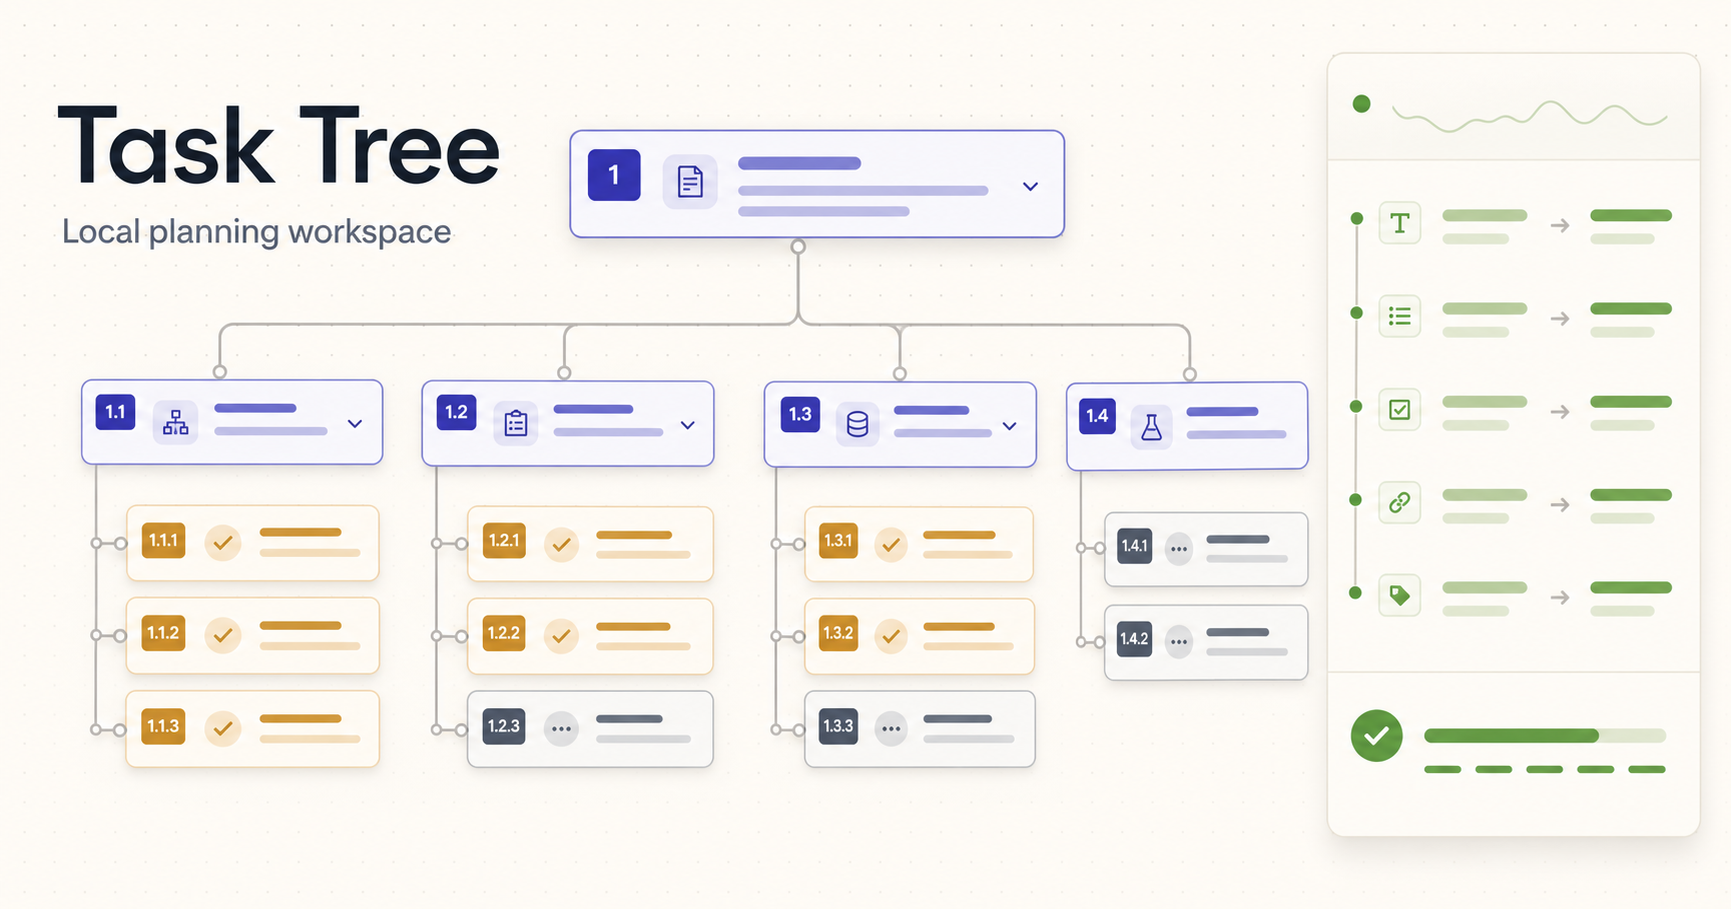
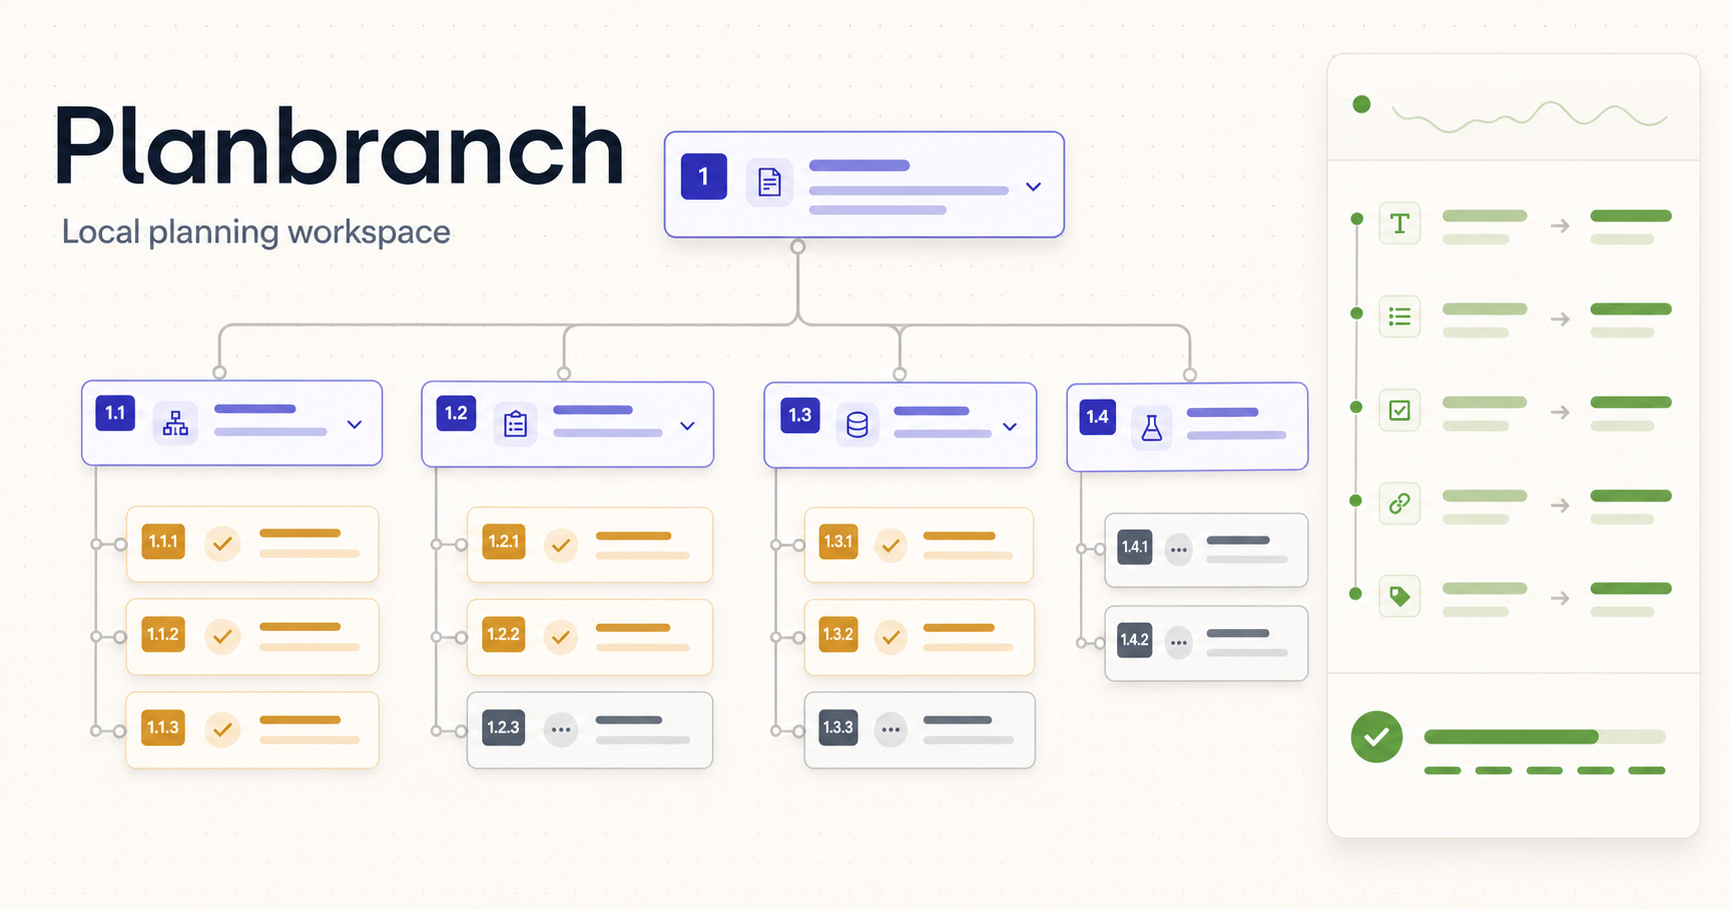
rename app to Planbranch

diff --git a/server/model.ts b/server/model.ts
@@ -170,8 +170,8 @@ class CodexConnection {
     try {
       const initialized = (await connection.request("initialize", {
         clientInfo: {
-          name: "task_tree",
-          title: "Task Tree",
+          name: "planbranch",
+          title: "Planbranch",
           version: "0.1.0",
         },
         capabilities: {
@@ -312,7 +312,7 @@ function systemInstructions(messages: Message[]): string {
     .join("\n\n");
   return `${supplied}
 
-This is a bounded planning session. Use only the supplied Task Tree tools.
+This is a bounded planning session. Use only the supplied Planbranch planning tools.
 Do not inspect files, run shell commands, browse, delegate, or use unrelated tools.
 Tool results are authoritative. Correct rejected calls before continuing.
 Call finish_run only after every intended mutation is accepted, then stop.`;
@@ -383,7 +383,7 @@ export class CodexAppServerClient implements ModelClient {
         if (message.id !== undefined) {
           connection.respondError(
             message.id,
-            "Task Tree does not support this Codex server request.",
+            "Planbranch does not support this Codex server request.",
           );
         }
         return;
@@ -425,7 +425,7 @@ export class CodexAppServerClient implements ModelClient {
       void Promise.resolve(
         onToolCall
           ? onToolCall(call)
-          : { ok: false, error: "No Task Tree tool handler is available." },
+          : { ok: false, error: "No Planbranch tool handler is available." },
       )
         .then((result) => {
           connection.respond(message.id!, {
@@ -437,7 +437,7 @@ export class CodexAppServerClient implements ModelClient {
         })
         .catch((error: unknown) => {
           const failure =
-            error instanceof Error ? error : new Error("Task Tree tool failed.");
+            error instanceof Error ? error : new Error("Planbranch tool failed.");
           connection.respond(message.id!, {
             contentItems: [
               {

diff --git a/app/layout.tsx b/app/layout.tsx
@@ -29,10 +29,10 @@ export async function generateMetadata(): Promise<Metadata> {
 
   return {
     metadataBase,
-    title: "Task Tree",
+    title: "Planbranch",
     description,
     openGraph: {
-      title: "Task Tree",
+      title: "Planbranch",
       description,
       type: "website",
       images: [
@@ -40,13 +40,13 @@ export async function generateMetadata(): Promise<Metadata> {
           url: image,
           width: 1731,
           height: 909,
-          alt: "Task Tree ordered decomposition workspace",
+          alt: "Planbranch ordered decomposition workspace",
         },
       ],
     },
     twitter: {
       card: "summary_large_image",
-      title: "Task Tree",
+      title: "Planbranch",
       description,
       images: [image],
     },

diff --git a/server/prompts.ts b/server/prompts.ts
@@ -5,7 +5,7 @@ import {
   type TaskTree,
 } from "../packages/domain/src";
 
-export const planningSystemPrompt = `You are the planning engine for Task Tree, a strictly ordered task-decomposition application.
+export const planningSystemPrompt = `You are the planning engine for Planbranch, a strictly ordered task-decomposition application.
 
 Ubiquitous language:
 - A Compound Task has an ordered Decomposition and no Operator.

diff --git a/server/index.ts b/server/index.ts
@@ -16,7 +16,7 @@ const app = await buildApp({
 try {
   await app.listen({ host: config.host, port: config.port });
   console.log(
-    `Task Tree model service listening on http://${config.host}:${config.port}`,
+    `Planbranch model service listening on http://${config.host}:${config.port}`,
   );
 } catch (error) {
   app.log.error(error);

diff --git a/worker/index.ts b/worker/index.ts
@@ -1,4 +1,4 @@
-/** Cloudflare Worker entry point for the Task Tree web client. */
+/** Cloudflare Worker entry point for the Planbranch web client. */
 import { handleImageOptimization, DEFAULT_DEVICE_SIZES, DEFAULT_IMAGE_SIZES } from "vinext/server/image-optimization";
 import handler from "vinext/server/app-router-entry";
 

diff --git a/app/page.tsx b/app/page.tsx
@@ -2,7 +2,7 @@ import type { Metadata } from "next";
 import { TaskTreeApp } from "./task-tree/task-tree-app";
 
 export const metadata: Metadata = {
-  title: "Task Tree",
+  title: "Planbranch",
   description:
     "A local, observable workspace for decomposing complex work into ordered Tasks.",
 };

diff --git a/server/run-manager.ts b/server/run-manager.ts
@@ -585,7 +585,7 @@ export class RunManager {
 
     if (response.toolCalls.length === 0) {
       throw new AttemptFailure(
-        "The model stopped before calling a Task Tree tool.",
+        "The model stopped before calling a Planbranch tool.",
       );
     }
     if (!context.finished) {

diff --git a/app/task-tree/toolbar.tsx b/app/task-tree/toolbar.tsx
@@ -82,7 +82,7 @@ export function Toolbar({
           <GitBranch size={18} />
         </span>
         <span>
-          <strong>Task Tree</strong>
+          <strong>Planbranch</strong>
           <small>local planning workspace</small>
         </span>
       </div>

diff --git a/README.md b/README.md
@@ -1,6 +1,6 @@
-# Task Tree
+# Planbranch
 
-Task Tree is a local, single-user planning workspace that uses a configurable
+Planbranch is a local, single-user planning workspace that uses a configurable
 model runtime to decompose complex work into a strictly ordered Task Tree.
 Model edits materialize while a Run is in progress, validation and retries
 remain visible, and only successful Runs enter undo history.
@@ -59,7 +59,7 @@ provider-specific UI changes.
 - Use the Activity panel to inspect model mutations, rejected edits,
   validation, retries, cancellation, and rollback.
 
-Task Tree describes Primitive Operators but never executes them.
+Planbranch describes Primitive Operators but never executes them.
 
 ## Architecture
 

diff --git a/SPEC.md b/SPEC.md
@@ -1,4 +1,4 @@
-# Task Decomposition App — Implementation Specification
+# Planbranch — Implementation Specification
 
 Status: Prototype specification  
 Version: 0.1  
